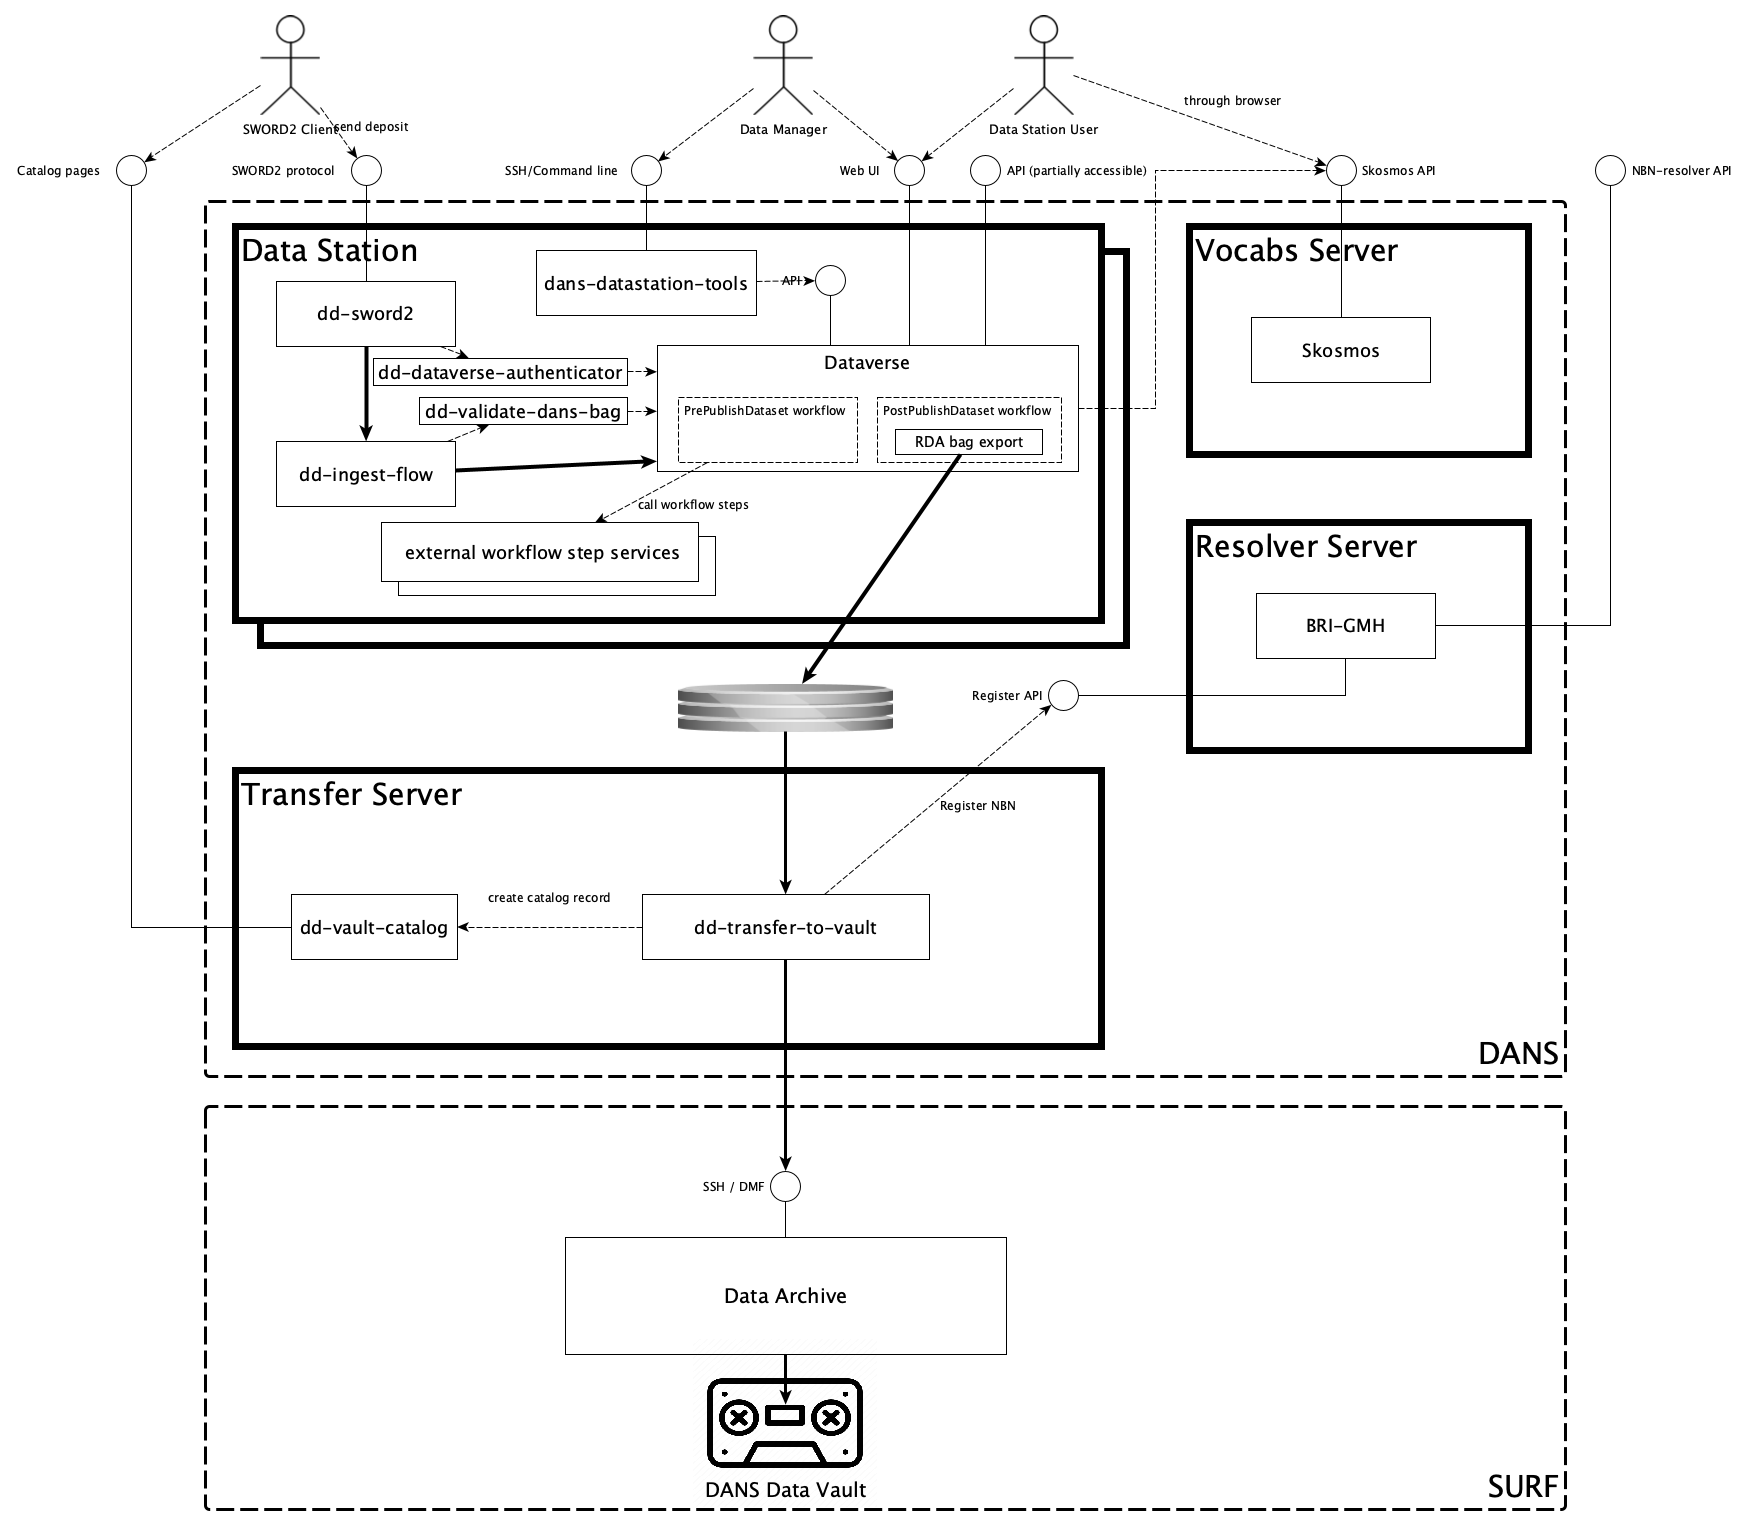
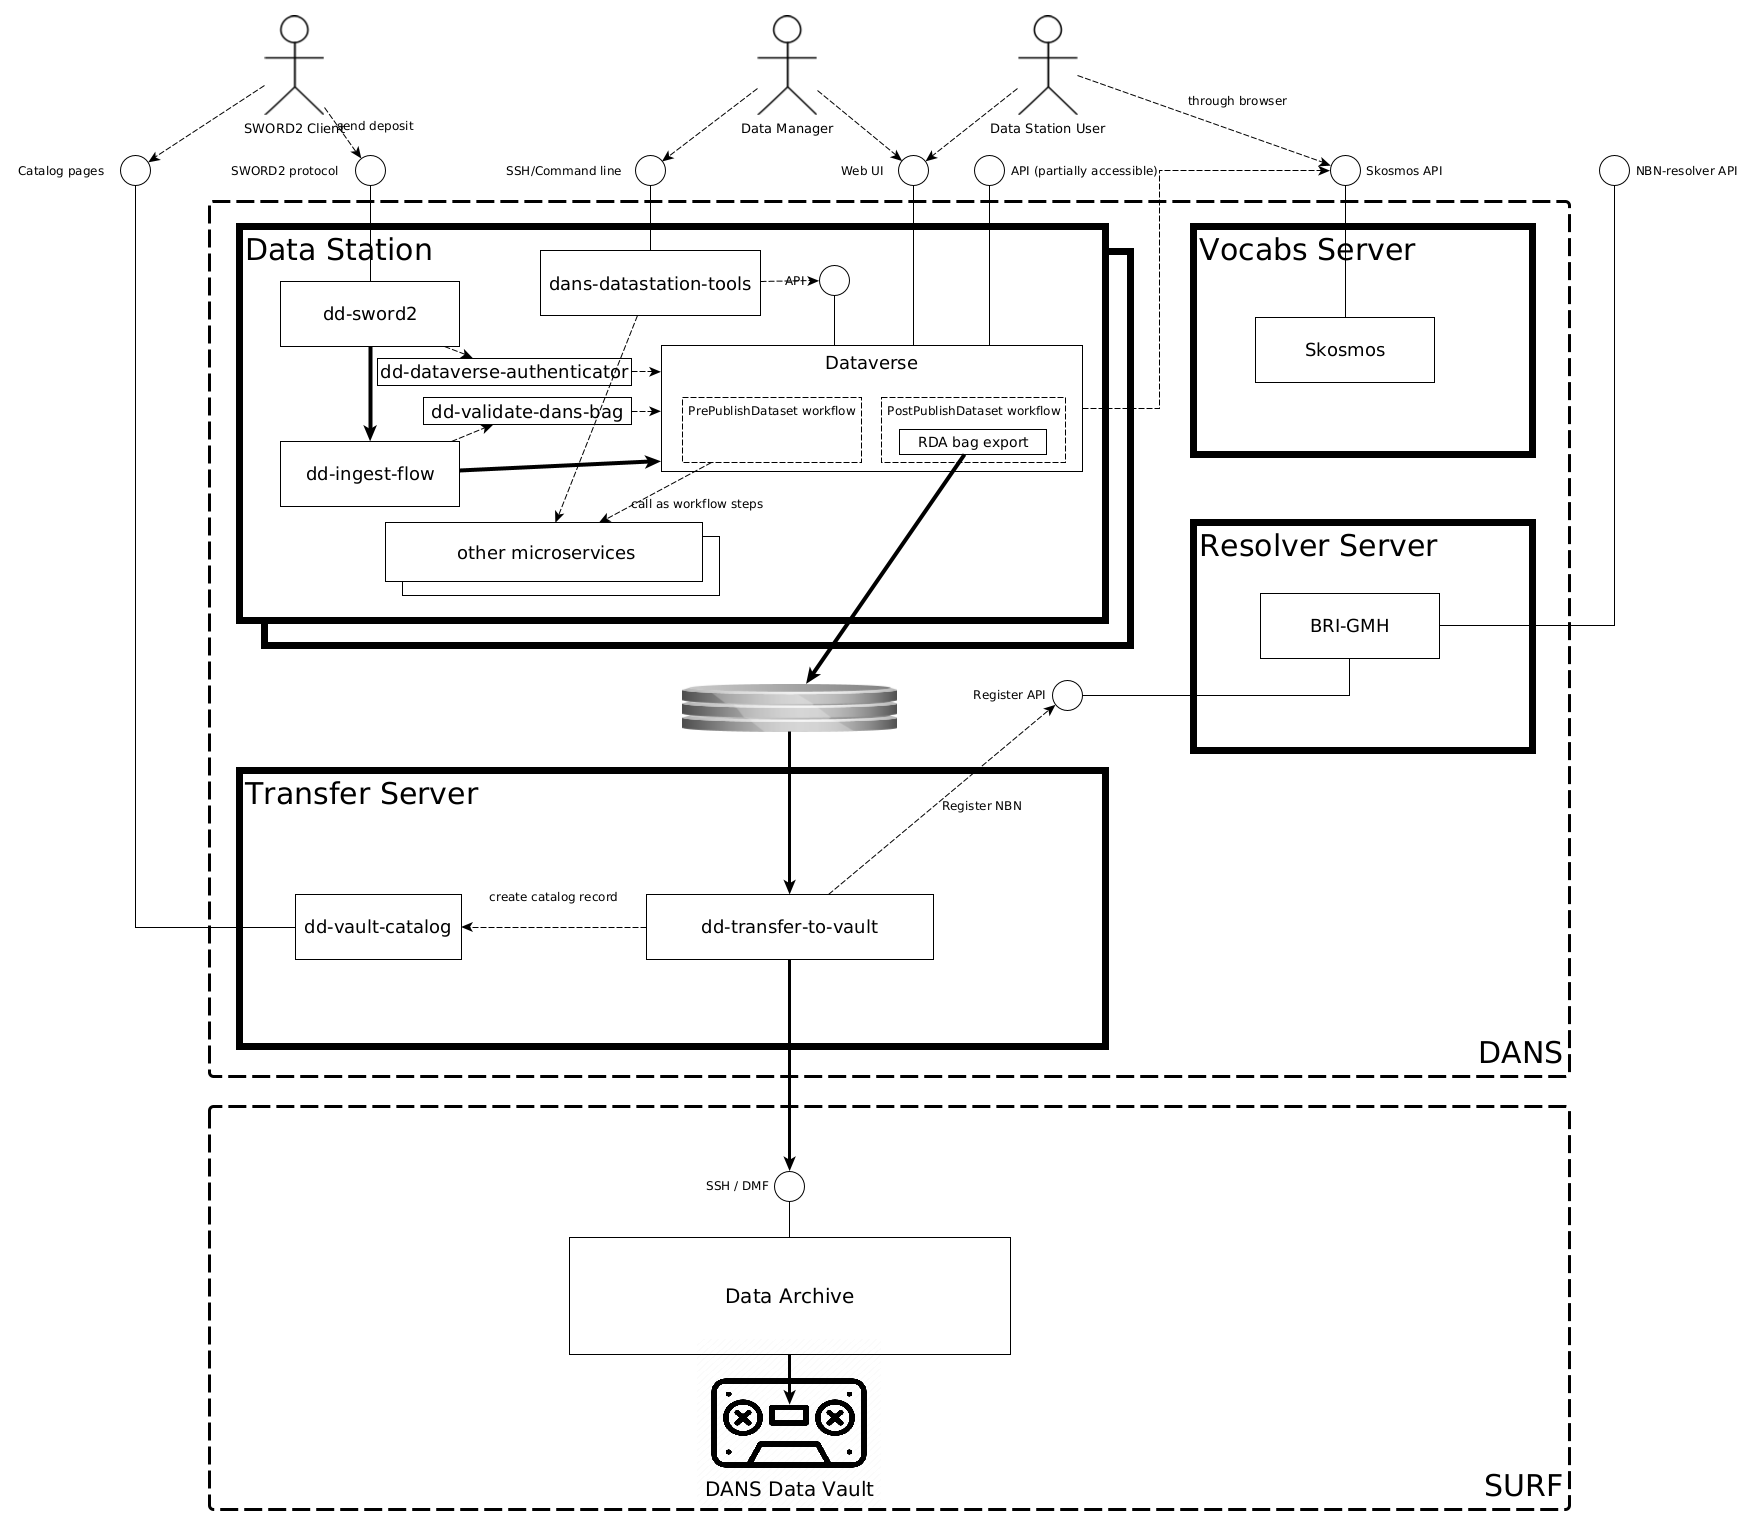
Renamed workflow-step services

diff --git a/docs/status.md b/docs/status.md
@@ -1,23 +1,23 @@
 Build status
 ============
 
-| Component                       | Build status                                                                                                                                                                                                     |
-|---------------------------------|------------------------------------------------------------------------------------------------------------------------------------------------------------------------------------------------------------------|
-| Dataverse                       | [![Maven Unit Tests](https://github.com/IQSS/dataverse/actions/workflows/maven_unit_test.yml/badge.svg)](https://github.com/IQSS/dataverse/actions/workflows/maven_unit_test.yml)                                |
-| dans-dataverse-client-lib       | [![Build project](https://github.com/DANS-KNAW/dans-dataverse-client-lib/actions/workflows/build.yml/badge.svg)](https://github.com/DANS-KNAW/dans-dataverse-client-lib/actions/workflows/build.yml)             |
-| dans-java-utils                 | [![Build project](https://github.com/DANS-KNAW/dans-java-utils/actions/workflows/build.yml/badge.svg)](https://github.com/DANS-KNAW/dans-java-utils/actions/workflows/build.yml)                                 |
-| dans-module-archetype           | [![Build project](https://github.com/DANS-KNAW/dans-module-archetype/actions/workflows/build.yml/badge.svg)](https://github.com/DANS-KNAW/dans-module-archetype/actions/workflows/build.yml)                     |
-| dans-schema                     | [![Build project](https://github.com/DANS-KNAW/dans-schema/actions/workflows/build.yml/badge.svg)](https://github.com/DANS-KNAW/dans-schema/actions/workflows/build.yml)                                         |
-| dd-dans-sword2-examples         | [![Build project](https://github.com/DANS-KNAW/dd-dans-sword2-examples/actions/workflows/build.yml/badge.svg)](https://github.com/DANS-KNAW/dd-dans-sword2-examples/actions/workflows/build.yml)                 |
-| dd-dataverse-authenticator      | [![Build project](https://github.com/DANS-KNAW/dd-ingest-flow/actions/workflows/build.yml/badge.svg)](https://github.com/DANS-KNAW/dd-ingest-flow/actions/workflows/build.yml)                                   |
-| dd-ingest-flow                  | [![Build project](https://github.com/DANS-KNAW/dd-dataverse-authenticator/actions/workflows/build.yml/badge.svg)](https://github.com/DANS-KNAW/dd-dataverse-authenticator/actions/workflows/build.yml)           |
-| dd-sword2                       | [![Build project](https://github.com/DANS-KNAW/dd-sword2/actions/workflows/build.yml/badge.svg)](https://github.com/DANS-KNAW/dd-sword2/actions/workflows/build.yml)                                             |
-| dd-transfer-to-vault            | [![Build project](https://github.com/DANS-KNAW/dd-transfer-to-vault/actions/workflows/build.yml/badge.svg)](https://github.com/DANS-KNAW/dd-transfer-to-vault/actions/workflows/build.yml)                       |
-| dd-validate-dans-bag            | [![Build project](https://github.com/DANS-KNAW/dd-validate-dans-bag/actions/workflows/build.yml/badge.svg)](https://github.com/DANS-KNAW/dd-validate-dans-bag/actions/workflows/build.yml)                       |
-| dd-vault-catalog                | [![Build project](https://github.com/DANS-KNAW/dd-vault-catalog/actions/workflows/build.yml/badge.svg)](https://github.com/DANS-KNAW/dd-vault-catalog/actions/workflows/build.yml)                               |
-| dd-verify-dataset               | [![Build project](https://github.com/DANS-KNAW/dd-verify-dataset/actions/workflows/build.yml/badge.svg)](https://github.com/DANS-KNAW/dd-verify-dataset/actions/workflows/build.yml)                             |
-| dd-verify-migration             | [![Build project](https://github.com/DANS-KNAW/dd-verify-migration/actions/workflows/build.yml/badge.svg)](https://github.com/DANS-KNAW/dd-verify-migration/actions/workflows/build.yml)                         |
-| dd-workflow-step-vault-metadata | [![Build project](https://github.com/DANS-KNAW/dd-workflow-step-vault-metadata/actions/workflows/build.yml/badge.svg)](https://github.com/DANS-KNAW/dd-workflow-step-vault-metadata/actions/workflows/build.yml) |
-| dd-workflow-step-virus-scan     | [![Build project](https://github.com/DANS-KNAW/dd-workflow-step-virus-scan/actions/workflows/build.yml/badge.svg)](https://github.com/DANS-KNAW/dd-workflow-step-virus-scan/actions/workflows/build.yml)         |
-| easy-mirror-deposit             | [![Build project](https://github.com/DANS-KNAW/easy-mirror-deposit/actions/workflows/build.yml/badge.svg)](https://github.com/DANS-KNAW/easy-mirror-deposit/actions/workflows/build.yml)                         |
+| Component                  | Build status                                                                                                                                                                                                     |
+|----------------------------|------------------------------------------------------------------------------------------------------------------------------------------------------------------------------------------------------------------|
+| Dataverse                  | [![Maven Unit Tests](https://github.com/IQSS/dataverse/actions/workflows/maven_unit_test.yml/badge.svg)](https://github.com/IQSS/dataverse/actions/workflows/maven_unit_test.yml)                                |
+| dans-dataverse-client-lib  | [![Build project](https://github.com/DANS-KNAW/dans-dataverse-client-lib/actions/workflows/build.yml/badge.svg)](https://github.com/DANS-KNAW/dans-dataverse-client-lib/actions/workflows/build.yml)             |
+| dans-java-utils            | [![Build project](https://github.com/DANS-KNAW/dans-java-utils/actions/workflows/build.yml/badge.svg)](https://github.com/DANS-KNAW/dans-java-utils/actions/workflows/build.yml)                                 |
+| dans-module-archetype      | [![Build project](https://github.com/DANS-KNAW/dans-module-archetype/actions/workflows/build.yml/badge.svg)](https://github.com/DANS-KNAW/dans-module-archetype/actions/workflows/build.yml)                     |
+| dans-schema                | [![Build project](https://github.com/DANS-KNAW/dans-schema/actions/workflows/build.yml/badge.svg)](https://github.com/DANS-KNAW/dans-schema/actions/workflows/build.yml)                                         |
+| dd-dans-sword2-examples    | [![Build project](https://github.com/DANS-KNAW/dd-dans-sword2-examples/actions/workflows/build.yml/badge.svg)](https://github.com/DANS-KNAW/dd-dans-sword2-examples/actions/workflows/build.yml)                 |
+| dd-dataverse-authenticator | [![Build project](https://github.com/DANS-KNAW/dd-ingest-flow/actions/workflows/build.yml/badge.svg)](https://github.com/DANS-KNAW/dd-ingest-flow/actions/workflows/build.yml)                                   |
+| dd-ingest-flow             | [![Build project](https://github.com/DANS-KNAW/dd-dataverse-authenticator/actions/workflows/build.yml/badge.svg)](https://github.com/DANS-KNAW/dd-dataverse-authenticator/actions/workflows/build.yml)           |
+| dd-sword2                  | [![Build project](https://github.com/DANS-KNAW/dd-sword2/actions/workflows/build.yml/badge.svg)](https://github.com/DANS-KNAW/dd-sword2/actions/workflows/build.yml)                                             |
+| dd-transfer-to-vault       | [![Build project](https://github.com/DANS-KNAW/dd-transfer-to-vault/actions/workflows/build.yml/badge.svg)](https://github.com/DANS-KNAW/dd-transfer-to-vault/actions/workflows/build.yml)                       |
+| dd-validate-dans-bag       | [![Build project](https://github.com/DANS-KNAW/dd-validate-dans-bag/actions/workflows/build.yml/badge.svg)](https://github.com/DANS-KNAW/dd-validate-dans-bag/actions/workflows/build.yml)                       |
+| dd-vault-catalog           | [![Build project](https://github.com/DANS-KNAW/dd-vault-catalog/actions/workflows/build.yml/badge.svg)](https://github.com/DANS-KNAW/dd-vault-catalog/actions/workflows/build.yml)                               |
+| dd-verify-dataset          | [![Build project](https://github.com/DANS-KNAW/dd-verify-dataset/actions/workflows/build.yml/badge.svg)](https://github.com/DANS-KNAW/dd-verify-dataset/actions/workflows/build.yml)                             |
+| dd-verify-migration        | [![Build project](https://github.com/DANS-KNAW/dd-verify-migration/actions/workflows/build.yml/badge.svg)](https://github.com/DANS-KNAW/dd-verify-migration/actions/workflows/build.yml)                         |
+| dd-vault-metadata          | [![Build project](https://github.com/DANS-KNAW/dd-workflow-step-vault-metadata/actions/workflows/build.yml/badge.svg)](https://github.com/DANS-KNAW/dd-workflow-step-vault-metadata/actions/workflows/build.yml) |
+| dd-virus-scan              | [![Build project](https://github.com/DANS-KNAW/dd-workflow-step-virus-scan/actions/workflows/build.yml/badge.svg)](https://github.com/DANS-KNAW/dd-workflow-step-virus-scan/actions/workflows/build.yml)         |
+| easy-mirror-deposit        | [![Build project](https://github.com/DANS-KNAW/easy-mirror-deposit/actions/workflows/build.yml/badge.svg)](https://github.com/DANS-KNAW/easy-mirror-deposit/actions/workflows/build.yml)                         |
 

diff --git a/docs/index.md b/docs/index.md
@@ -29,10 +29,17 @@ those datasets.
 #### Workflows
 
 Dataverse provides event hooks that allow to configure workflows to run just before and after a publication event. These workflows can have multiple steps. A
-step can be implemented as part of Dataverse or as an external service (see [External Workflow Step Services](#external-workflow-step-services)).
+step can be implemented as part of Dataverse or as an external service. The following microservices are configured to run as `PrePublishDataset` workflow steps:
+
+* [dd-vault-metadata](#dd-vault-metadata)
+
+The following microservices are candidates to become part of the `PrePublishDataset` workflow in the future:
+
+* [dd-virus-scan](#dd-virus-scan)
+* [dd-verify-dataset](#dd-verify-dataset)
 
 The **RDA Bag Export** flow step is implemented in Dataverse and is used to export an RDA compliant bag (also a "Dataset Version Export" or DVE) for each
-dataset version after publication. This exported bag is then picked up by [dd-transfer-to-vault](#dd-transfer-to-vault).
+dataset version after publication (i.e. in the `PostPublishDataset` workflow). This exported bag is then picked up by [dd-transfer-to-vault](#dd-transfer-to-vault).
 
 | Docs                         | Code                                                |
 |------------------------------|-----------------------------------------------------|
@@ -91,22 +98,18 @@ Service for performing curation checks on datasets.
 |-------------------------------------|------------------------------------------------------------------|
 | [dd-verify-dataset]{:target=_blank} | <https://github.com/DANS-KNAW/dd-verify-dataset>{:target=_blank} |
 
-### External Workflow Step Services
 
-The [workflow](#workflows) step-type [http/authext]{:target=_blank} will invoke an external HTTP service and authorize it to query and modify the dataset being
-published. The following micro-services have been created to perform specific steps.
+### dd-virus-scan
 
-#### dd-workflow-step-virus-scan
-
-A (`PrePublishDataset`) workflow step that scans all files in a dataset for virus using `clamav` and blocks publication if a virus is found.
+A service p that scans all files in a dataset for virus using `clamav` and blocks publication if a virus is found.
 
 | Docs                                            | Code                                                                       |
 |-------------------------------------------------|----------------------------------------------------------------------------|
 | [dd-workflow-step-virus-scan]{:target=_blank}   | <https://github.com/DANS-KNAW/dd-workflow-step-virus-scan>{:target=_blank} |
 
-#### dd-workflow-step-vault-metadata
+### dd-vault-metadata
 
-A (`PrePublishDataset`) workflow step that fills in the "Vault Metadata" for a dataset version. These metadata will be used later on
+A service that fills in the "Vault Metadata" for a dataset version. These metadata will be used later on
 by [dd-transfer-to-vault](#dd-transfer-to-vault) to catalogue the long-term preservation copy of the dataset version when it is stored on tape.
 
 | Docs                                              | Code                                                                       |
